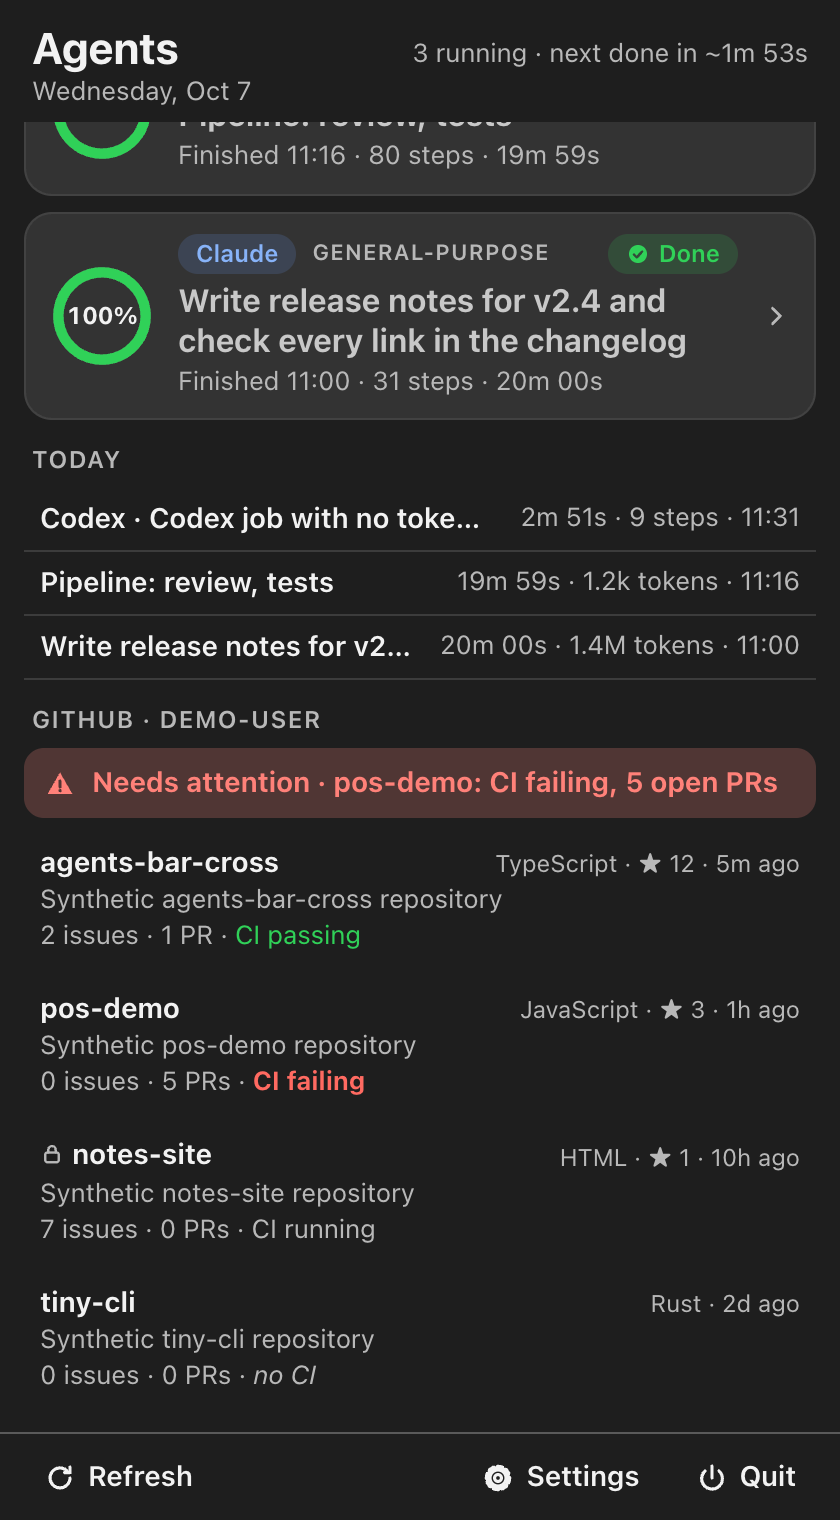
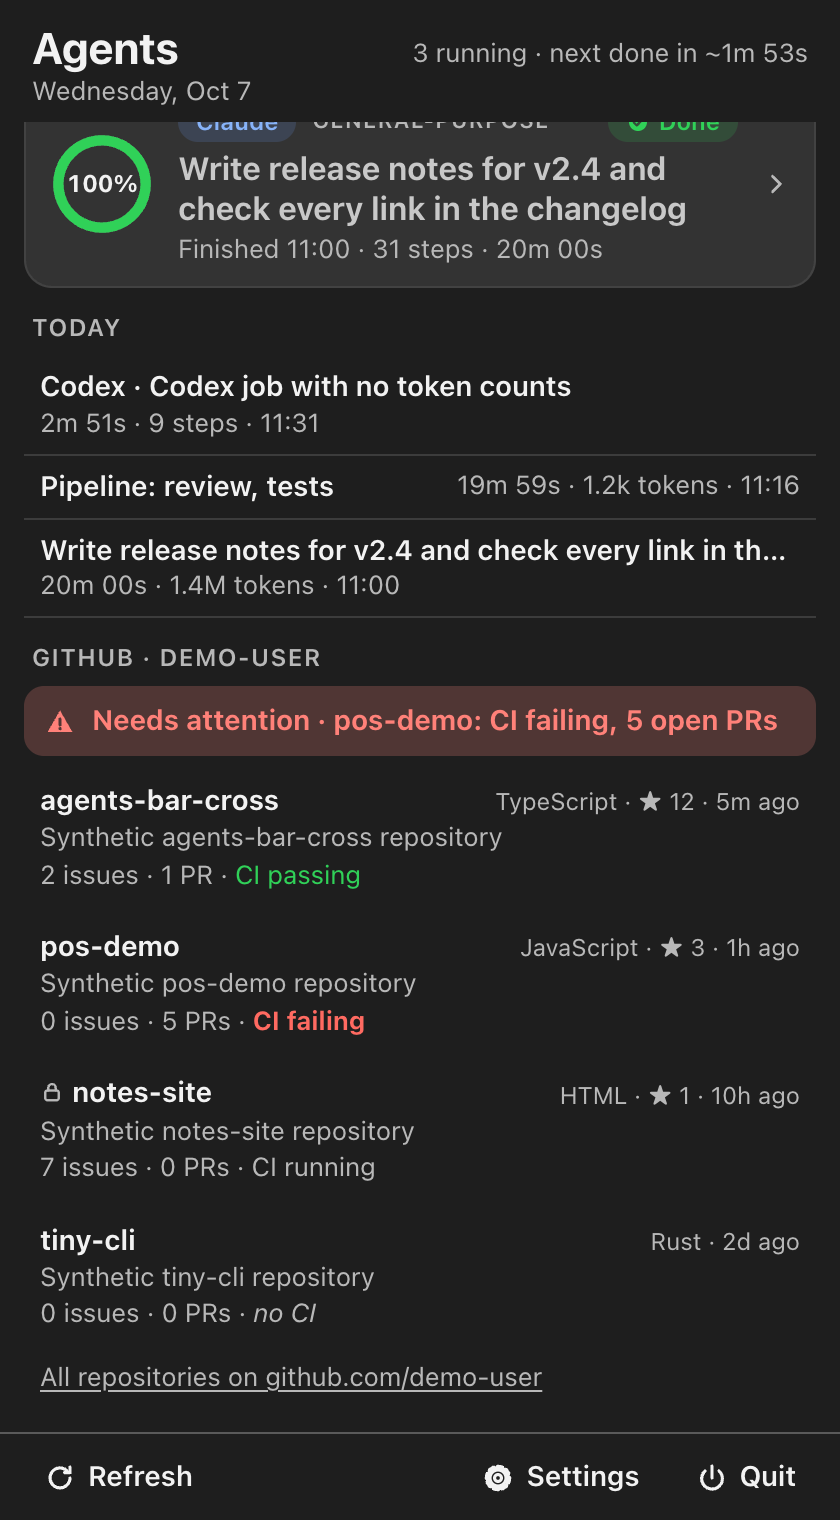
Port three Mac features: tray glance text, over-usual amounts, all-repositories link
- Tray: the title next to the icon (macOS) is the Mac glance text: 63% for one running
  agent, 2 · 33% for two (average of known percents, rounded down), 2 when no percent
  yet, nothing when idle. The tooltip keeps the counts in words with the average.
- A running agent past its usual time reads "7m 40s over usual (~4m 00s) · 38 steps".
- The GitHub section ends with "All repositories on github.com/<login>" or "+N more";
  a new open_profile command opens https://github.com/<login> only for a valid login.
- Tests: barText/trayLabel, over-usual text, link text and validated open (vitest);
  profile_url validation and tray_text sanitising (cargo); ui-smoke checks the link.
- README/DETAILS updated; docs/github-dark.png regenerated with npm run shots.

diff --git a/tests/engine.test.ts b/tests/engine.test.ts
@@ -2,7 +2,8 @@ import { describe, expect, it } from 'vitest';
 import { memoryBackend } from '../src/backend/memory';
 import { Engine } from '../src/ui/engine';
 import { selectRows, subtitle, ringOf } from '../src/ui/format';
-import type { Agent } from '../src/core/agents';
+import { barText, type Agent } from '../src/core/agents';
+import { allReposText } from '../src/core/github';
 
 const NOW = Date.UTC(2026, 9, 7, 19, 0, 0);
 const mk = (o: Partial<Agent> = {}): Agent => ({ agentId: 'a', kind: 'k', description: 'd', state: 'running', started: 0, lastActivity: NOW / 1000, toolCalls: 38, lastTool: 'Bash', pct: 63, eta: NOW / 1000 + 240, asOf: NOW / 1000, source: 'Claude', path: '/p', active: 190, typical: null, rough: false, reported: true, note: 'running the tests', tokensNew: 212_000, tokensCache: 0, ...o });
@@ -10,15 +11,17 @@ const mk = (o: Partial<Agent> = {}): Agent => ({ agentId: 'a', kind: 'k', descri
 describe('engine on the synthetic fleet', () => {
   it('finds running/done/stalled agents, sets the tray text, loads GitHub with attention', async () => {
     const b = memoryBackend({ now: NOW });
-    const labels: string[] = [];
-    b.setTrayLabel = async (l) => { labels.push(l); };
+    const labels: string[] = [], titles: string[] = [];
+    b.setTrayLabel = async (l, t) => { labels.push(l); titles.push(t); };
     const e = new Engine(b);
     await e.init();
     await e.refreshGithub(true);
     const states = e.snap.agents.map((a) => a.state);
     expect(states.filter((s) => s === 'running')).toHaveLength(3);
     expect(states).toContain('stalled');
-    expect(labels.at(-1)).toMatch(/^3 running · \d finished$/);
+    expect(labels.at(-1)).toMatch(/^3 running \(average \d+%\) · \d finished$/);
+    expect(titles.at(-1)).toBe(barText(e.snap.agents));
+    expect(titles.at(-1)).toMatch(/^3 · \d+%$/);
     expect(e.snap.repos).toHaveLength(4);
     expect(e.snap.attention?.text).toBe('Needs attention · pos-demo: CI failing, 5 open PRs');
     expect(e.snap.ghError).toBeNull();
@@ -40,6 +43,11 @@ describe('row text', () => {
     expect(ringOf(mk({ pct: null })).text).toBe('…');
     expect(subtitle(mk({ state: 'done' }), 'both')).toContain('Finished');
   });
+  it('an agent past its usual time says by how much (Mac parity)', () => {
+    const slow = mk({ reported: false, note: '', pct: 97, eta: null, active: 700, typical: 240, tokensNew: null });
+    expect(subtitle(slow, 'percent')).toBe('7m 40s over usual (~4m 00s) · 38 steps');
+    expect(subtitle(mk({ reported: false, note: '', pct: 97, eta: null, active: 4000, typical: 61, tokensNew: null }), 'percent')).toMatch(/^1h 05m over usual \(~1m 01s\) · /);
+  });
   it('selectRows caps and lets running agents use unused recent slots', () => {
     const run = Array.from({ length: 10 }, (_, i) => mk({ path: `r${i}` }));
     const rec = Array.from({ length: 2 }, (_, i) => mk({ state: 'done', path: `d${i}` }));
@@ -49,5 +57,29 @@ describe('row text', () => {
     const r2 = selectRows([...run, ...Array.from({ length: 9 }, (_, i) => mk({ state: 'done', path: `x${i}` }))], 8, 12);
     expect(r2.running.length + r2.recent.length).toBe(12);
     expect(r2.hidden).toBe(7);
+  });
+});
+
+describe('the GitHub profile link', () => {
+  it('reads like the Mac: all repositories, or how many more', () => {
+    expect(allReposText('demo-user', 4, 4)).toBe('All repositories on github.com/demo-user');
+    expect(allReposText('demo-user', 12, 8)).toBe('+4 more on github.com/demo-user');
+    expect(allReposText('demo-user', 0, 0)).toBe('All repositories on github.com/demo-user');
+    for (const bad of ['', 'a--b', '-x', 'x-', 'me/tool', 'evil.com', 'me?tab=x', 'm e', 'a'.repeat(40)]) expect(allReposText(bad, 3, 3), bad).toBeNull();
+  });
+  it('opens only a valid login from gh, through the backend', async () => {
+    const b = memoryBackend({ now: NOW });
+    const opened: string[] = [];
+    b.openProfile = async (l) => { opened.push(l); };
+    const e = new Engine(b);
+    await e.init(); await e.refreshGithub(true);
+    expect(e.snap.login).toBe('demo-user');
+    await e.openProfile();
+    expect(opened).toEqual(['demo-user']);
+    e.snap = { ...e.snap, login: 'evil.com/x' };
+    await e.openProfile();
+    e.snap = { ...e.snap, login: '' };
+    await e.openProfile();
+    expect(opened).toEqual(['demo-user']);
   });
 });

diff --git a/src/ui/app.tsx b/src/ui/app.tsx
@@ -7,7 +7,7 @@ import { Alert, Back, Chevron, Gear, Lock, Pause, Play, Power, Refresh, Tick } f
 import { AGENT_METRICS, APPEARANCES, BLURS, GLASS_STEP, LABELS, LAYOUTS, LIMIT_MAX, LIMIT_MIN, PROGRESS_STYLES, PR_ALERT_MAX, PR_ALERT_MIN, THEMES, maxRunningFor, type AppSettings } from '../core/settings';
 import { nextDone, type Agent } from '../core/agents';
 import { capRows, todayRow } from '../core/history';
-import { segments, spoken, spokenAttention, type Repo, type Role } from '../core/github';
+import { allReposText, segments, spoken, spokenAttention, type Repo, type Role } from '../core/github';
 import { ago, clean, fmtDuration } from '../core/text';
 
 /** Applies the theme as CSS variables on <html>. Called again when settings or the system appearance change. */
@@ -120,6 +120,7 @@ function MainView({ engine }: { engine: Engine }) {
     ? `${runningAll.length} running · ${next !== null && s.agentMetric !== 'tokens' ? `next done in ~${fmtDuration(next)}` : `${snap.agents.filter((a) => a.state === 'done').length} finished in 24h`}`
     : snap.agents.length ? `Nothing running · ${snap.agents.filter((a) => a.state === 'done').length} finished in 24h` : '';
   const repos = snap.repos.slice(0, s.maxRepos);
+  const allRepos = allReposText(snap.login, snap.repos.length, repos.length);
   const date = new Date(snap.now ? snap.now * 1000 : engine.backend.now()).toLocaleDateString(undefined, { weekday: 'long', month: 'short', day: 'numeric' });
   return (
     <>
@@ -159,6 +160,7 @@ function MainView({ engine }: { engine: Engine }) {
           {snap.ghError && <div class="notice bad" role="alert">{snap.ghError}{repos.length > 0 ? ' Showing the last list.' : ''}</div>}
           {snap.ghLoading && repos.length === 0 && !snap.ghError && <p class="empty">Loading repositories…</p>}
           {repos.length > 0 && <ul class="repos">{repos.map((r) => <RepoRow key={r.url || r.name} r={r} now={snap.now * 1000 || engine.backend.now()} onOpen={(x) => void engine.openRepo(x)} />)}</ul>}
+          {allRepos && <button class="all-repos" onClick={() => void engine.openProfile().catch(() => undefined)} aria-label={`${allRepos}. Open on GitHub.`}>{allRepos}</button>}
         </Section>
       </main>
     </>

diff --git a/src/ui/engine.ts b/src/ui/engine.ts
@@ -1,8 +1,8 @@
 // The engine behind the popup: owns the scanner, the finish watcher, the GitHub book and the settings, and publishes one
 // snapshot to the UI after every change. No DOM here, so it is tested without a browser.
-import { AgentScanner, trayLabel, type Agent } from '../core/agents';
+import { AgentScanner, barState, barText, trayLabel, type Agent } from '../core/agents';
 import { FinishWatcher, NotifiedStore, groupNotification, notification, today } from '../core/history';
-import { StatusBook, attention, fetchWithStatus, ghErrorText, summary, type Hit, type Repo } from '../core/github';
+import { OWNER_RE, StatusBook, attention, fetchWithStatus, ghErrorText, summary, type Hit, type Repo } from '../core/github';
 import { SettingsStore } from '../core/settingsStore';
 import { NOTIFIED_FILE } from '../core/settings';
 import { errMessage } from '../core/io';
@@ -109,9 +109,10 @@ export class Engine {
     this.snap = { ...this.snap, hits, attention: sum ? { text: sum[0], repo: sum[1] } : null };
   }
 
+  /** Tooltip: the counts in words; title (beside the icon, where the OS shows one): the Mac glance text, '' when idle. */
   async publishTray(): Promise<void> {
-    const running = this.snap.agents.filter((a) => a.state === 'running').length;
-    try { await this.backend.setTrayLabel(trayLabel(running, this.snap.finishedToday.length)); } catch { /* the tray is a bonus */ }
+    const [running, pct] = barState(this.snap.agents);
+    try { await this.backend.setTrayLabel(trayLabel(running, this.snap.finishedToday.length, pct), barText(this.snap.agents)); } catch { /* the tray is a bonus */ }
   }
 
   private ghRun: Promise<void> = Promise.resolve();
@@ -150,5 +151,11 @@ export class Engine {
   async openRepo(r: Repo): Promise<void> {
     const m = /^https:\/\/github\.com\/([^/]+\/[^/]+)\/?$/.exec(r.url);
     if (m) await this.backend.openRepo(m[1]!);
+  }
+
+  /** Opens https://github.com/<login> (the login from gh; Rust checks it again and builds the URL itself). */
+  async openProfile(): Promise<void> {
+    const login = this.snap.login;
+    if (OWNER_RE.test(login)) await this.backend.openProfile(login);
   }
 }

diff --git a/tests/agents.test.ts b/tests/agents.test.ts
@@ -1,6 +1,6 @@
 import { describe, expect, it } from 'vitest';
 import { claudeLines, codexLines } from '../tools/synth';
-import { AgentScanner, barState, curvePct, elapsed, estimate, finishedSince, nextDone, overrun, remaining, stateOf, trayLabel, agentKey, type Agent, type KnownFile, type ScanFile, type ScanReply } from '../src/core/agents';
+import { AgentScanner, barState, barText, curvePct, elapsed, estimate, finishedSince, nextDone, overrun, remaining, stateOf, trayLabel, agentKey, type Agent, type KnownFile, type ScanFile, type ScanReply } from '../src/core/agents';
 import type { Rec } from '../src/core/transcripts';
 
 const NOW = 1_760_000_000;
@@ -83,6 +83,20 @@ describe('percent estimate', () => {
     expect(trayLabel(0, 2)).toBe('2 finished');
     expect(trayLabel(1, 0)).toBe('1 running');
     expect(trayLabel(0, 0)).toBe('Agents Bar');
+    expect(trayLabel(3, 2, 50)).toBe('3 running (average 50%) · 2 finished');
+    expect(trayLabel(1, 0, 63)).toBe('1 running (63%)');
+  });
+  it('the tray glance text matches the Mac bar_text rules', () => {
+    expect(barText([])).toBe('');
+    expect(barText([agent({ state: 'done', pct: 100 })])).toBe('');
+    expect(barText([agent({ state: 'stalled', pct: 40 })])).toBe('');
+    expect(barText([agent({ pct: 63 })])).toBe('63%');
+    expect(barText([agent({ pct: 40 }), agent({ pct: 60, path: '/b' })])).toBe('2 · 50%');
+    expect(barText([agent({ pct: 33 }), agent({ pct: 34, path: '/b' })])).toBe('2 · 33%'); // the average is rounded down
+    expect(barText([agent({ pct: null }), agent({ pct: null, path: '/b' })])).toBe('2'); // no estimate yet: the count only
+    expect(barText([agent({ pct: null })])).toBe('1');
+    // the count is every running agent; the average only of those with a percent (an unknown is not counted as 0)
+    expect(barText([agent({ pct: 60 }), agent({ pct: null, path: '/b' }), agent({ state: 'done', pct: 100, path: '/c' })])).toBe('2 · 60%');
   });
 });
 

diff --git a/src/core/agents.ts b/src/core/agents.ts
@@ -120,10 +120,19 @@ export function barState(agents: Agent[]): [number, number | null] {
   return [running.length, pcts.length ? Math.floor(pcts.reduce((x, y) => x + y, 0) / pcts.length) : null];
 }
 
-/** Tray tooltip/title: '3 running · 2 finished' (finished = done today is passed in by the caller). */
-export function trayLabel(running: number, finished: number): string {
+/** The glance text beside the tray icon (Mac bar_text): '63%' for one running agent, '2 · 33%' for two (the average of
+ * the known percents, rounded down), '2' when no running agent has an estimate yet, '' when nothing runs. */
+export function barText(agents: Agent[]): string {
+  const [n, pct] = barState(agents);
+  if (!n) return '';
+  if (pct === null) return String(n);
+  return n === 1 ? `${pct}%` : `${n} · ${pct}%`;
+}
+
+/** Tray tooltip: '3 running (average 50%) · 2 finished' (finished = done today is passed in by the caller). */
+export function trayLabel(running: number, finished: number, pct: number | null = null): string {
   const parts: string[] = [];
-  if (running) parts.push(`${running} running`);
+  if (running) parts.push(pct === null ? `${running} running` : `${running} running (${running === 1 ? '' : 'average '}${pct}%)`);
   if (finished) parts.push(`${finished} finished`);
   return parts.length ? parts.join(' · ') : 'Agents Bar';
 }

diff --git a/src/ui/styles.css b/src/ui/styles.css
@@ -65,8 +65,9 @@ html[dir='rtl'] .chev { transform: scaleX(-1); }
 .t-more, .more { color: var(--text2); font-size: 13px; padding: 6px 8px; margin: 0; }
 
 .repos { display: grid; gap: 4px; }
+.all-repos { width: 100%; min-width: 0; overflow-wrap: anywhere; text-align: start; background: transparent; color: var(--text2); border: 0; border-radius: 10px; padding: 7px 8px; font: inherit; font-size: 13px; text-decoration: underline; text-underline-offset: 2px; cursor: pointer; }
 .repo { width: 100%; min-width: 0; max-width: 100%; overflow: hidden; text-align: start; background: transparent; border: 0; border-radius: 10px; padding: 7px 8px; cursor: pointer; }
-.repo:hover { background: color-mix(in srgb, var(--card) 80%, transparent); }
+.repo:hover, .all-repos:hover { background: color-mix(in srgb, var(--card) 80%, transparent); }
 .repo-top { display: flex; flex-wrap: wrap; justify-content: space-between; gap: 0 10px; align-items: baseline; min-width: 0; }
 .repo-name { font-weight: 650; display: inline-flex; align-items: center; gap: 4px; min-width: 0; overflow: hidden; text-overflow: ellipsis; white-space: nowrap; }
 .lock { width: 12px; height: 12px; color: var(--text2); flex: none; }

diff --git a/src/backend/types.ts b/src/backend/types.ts
@@ -19,13 +19,16 @@ export interface Backend {
   /** True when notifications are switched off for this run (AGENTSBAR_NO_NOTIFICATIONS). */
   notifyOff: boolean;
   now: () => number; // ms
-  setTrayLabel(label: string): Promise<void>;
+  /** `label` is the tooltip; `title` the short glance text beside the icon (macOS shows it), '' for none. */
+  setTrayLabel(label: string, title: string): Promise<void>;
   hide(): Promise<void>;
   quit(): Promise<void>;
   /** Shows a transcript in the file manager. The Rust side only accepts paths its own scanner found. */
   revealTranscript(path: string): Promise<void>;
   /** The Rust side builds https://github.com/<owner>/<repo> from the validated names and opens it. */
   openRepo(slug: string): Promise<void>;
+  /** The Rust side builds https://github.com/<login> from the validated login and opens it. */
+  openProfile(login: string): Promise<void>;
   autostart: { isEnabled(): Promise<boolean>; set(on: boolean): Promise<void> } | null;
   onTick(cb: () => void): () => void;
   /** The computer woke from sleep (Rust sends it from its tick thread). Optional: the browser preview has none. */

diff --git a/src/backend/tauri.ts b/src/backend/tauri.ts
@@ -37,11 +37,12 @@ export async function tauriBackend(): Promise<Backend> {
     notifyOff: info.noNotifications,
     // Sent from Rust, which reports a real failure (denied, no daemon) so the retries are driven by what actually happened.
     notify: (title, body) => invoke<void>('notify', { title, body }).then(() => true, () => false),
-    setTrayLabel: (label) => invoke<void>('set_tray_label', { label }),
+    setTrayLabel: (label, title) => invoke<void>('set_tray_label', { label, title }),
     hide: () => invoke<void>('hide_popup'),
     quit: () => invoke<void>('quit_app'),
     revealTranscript: (path) => invoke<void>('reveal_transcript', { path }).catch((e) => { throw new Error(errMessage(e)); }),
     openRepo: (slug) => invoke<void>('open_repo', { slug }).catch((e) => { throw new Error(errMessage(e)); }),
+    openProfile: (login) => invoke<void>('open_profile', { login }).catch((e) => { throw new Error(errMessage(e)); }),
     autostart: { isEnabled: () => isEnabled(), set: (on) => (on ? enable() : disable()) },
     onTick: (cb) => subscribe('tick', cb),
     onSlept: (cb) => subscribe('slept', cb),

diff --git a/src/core/github.ts b/src/core/github.ts
@@ -182,6 +182,14 @@ export async function fetchWithStatus(book: StatusBook, gh: GhBackend, now: numb
 
 // ---- text ----------------------------------------------------------------------------------------------------
 
+/** The last line of the GitHub list (Mac parity): 'All repositories on github.com/<login>', or '+N more on
+ * github.com/<login>' when the list was cut short. null when there is no valid login to link to. */
+export function allReposText(login: string, total: number, shown: number): string | null {
+  if (!OWNER_RE.test(login)) return null;
+  const more = total - shown;
+  return more > 0 ? `+${more} more on github.com/${login}` : `All repositories on github.com/${login}`;
+}
+
 const plural = (n: number, word: string, pl?: string) => `${n.toLocaleString('en-US')} ${n === 1 ? word : pl ?? `${word}s`}`;
 const ciOf = (r: Partial<Repo> | null | undefined): Ci | null => (r && (CI_VALUES as readonly unknown[]).includes(r.ci) ? (r.ci as Ci) : null);
 const numOf = (v: unknown): number | null => num(v);

diff --git a/src/backend/memory.ts b/src/backend/memory.ts
@@ -80,7 +80,7 @@ export function memoryBackend(o: PreviewOptions = {}): Backend {
     scan: new MemoryScan(o.empty ? [] : demoScanFiles(nowSec, o.hostile)),
     gh: demoGh(nowSec, o.gh ?? 'ok', o.hostile),
     notify: async () => true, notifyOff: true,
-    setTrayLabel: async () => {}, hide: async () => {}, quit: async () => {}, revealTranscript: async () => {}, openRepo: async () => {},
+    setTrayLabel: async () => {}, hide: async () => {}, quit: async () => {}, revealTranscript: async () => {}, openRepo: async () => {}, openProfile: async () => {},
     autostart: { isEnabled: async () => false, set: async () => {} },
     onTick: (cb) => { const t = setInterval(cb, 3000); return () => clearInterval(t); },
     onShown: () => () => {},

diff --git a/src/ui/format.ts b/src/ui/format.ts
@@ -28,7 +28,7 @@ export function subtitle(a: Agent, metric: AgentMetric): string {
   const est = a.pct === null ? '' : a.reported ? `${a.pct}%` : `est. ${a.pct}%`;
   if (metric === 'percent') {
     const rem = remaining(a);
-    if (overrun(a)) return `Taking longer than usual · ${fmtStats({ ...a, tokensNew: null })}`;
+    if (overrun(a)) return `${fmtDuration(elapsed(a) - a.typical!)} over usual (~${fmtDuration(a.typical)}) · ${fmtStats({ ...a, tokensNew: null })}`;
     const parts: string[] = [];
     if (rem !== null) parts.push(`~${fmtDuration(rem)} left`);
     if (a.note) parts.push(a.note);

diff --git a/src-tauri/src/lib.rs b/src-tauri/src/lib.rs
@@ -135,18 +135,23 @@ async fn fs_move_aside(
     off_main(move || files::move_aside(&dir, &name, &backup_name))
 }
 
+/// Tray text from the page: no control characters, at most `max` characters.
+pub fn tray_text(text: &str, max: usize) -> String {
+    text.chars().filter(|c| !c.is_control()).take(max).collect()
+}
+
+/// `label` is the tooltip; `title` is the short glance text beside the icon ("63%", "2 · 33%"), "" when nothing runs.
 #[tauri::command]
-fn set_tray_label(state: State<AppState>, label: String) {
-    let label: String = label
-        .chars()
-        .filter(|c| !c.is_control())
-        .take(120)
-        .collect();
+fn set_tray_label(state: State<AppState>, label: String, title: String) {
+    let label = tray_text(&label, 120);
+    let title = tray_text(&title, 24);
     if let Some(tray) = state.tray.lock().unwrap().as_ref() {
-        eprintln!("agents-bar: tray label: {label}");
+        eprintln!("agents-bar: tray label: {label} [{title}]");
         let _ = tray.set_tooltip(Some(&label));
         #[cfg(target_os = "macos")]
-        let _ = tray.set_title(Some(&label));
+        let _ = tray.set_title(if title.is_empty() { None } else { Some(title) });
+        #[cfg(not(target_os = "macos"))]
+        let _ = title;
     }
 }
 
@@ -267,6 +272,16 @@ fn reveal_transcript(app: AppHandle, state: State<AppState>, path: String) -> Re
 #[tauri::command]
 fn open_repo(app: AppHandle, slug: String) -> Result<(), String> {
     let url = gh::repo_url(&slug).ok_or_else(|| "not a valid repository name".to_string())?;
+    use tauri_plugin_opener::OpenerExt;
+    app.opener()
+        .open_url(url, None::<&str>)
+        .map_err(|e| e.to_string())
+}
+
+/// Opens https://github.com/<login>, built here from a validated login (never a URL from the page).
+#[tauri::command]
+fn open_profile(app: AppHandle, login: String) -> Result<(), String> {
+    let url = gh::profile_url(&login).ok_or_else(|| "not a valid GitHub login".to_string())?;
     use tauri_plugin_opener::OpenerExt;
     app.opener()
         .open_url(url, None::<&str>)
@@ -489,6 +504,7 @@ pub fn run() {
             gh_run_list,
             reveal_transcript,
             open_repo,
+            open_profile,
             notify
         ])
         .setup(|app| {
@@ -541,7 +557,9 @@ pub fn run() {
 
 #[cfg(test)]
 mod tests {
-    use super::{notification_text, off_main_for, suppress_reopen, BLUR_REOPEN_SUPPRESS, TRAY_MID};
+    use super::{
+        notification_text, off_main_for, suppress_reopen, tray_text, BLUR_REOPEN_SUPPRESS, TRAY_MID,
+    };
     use std::time::Duration;
 
     #[test]
@@ -555,6 +573,13 @@ mod tests {
             120
         );
         assert_eq!(notification_text("  a   b  ", 10), "a b");
+    }
+
+    #[test]
+    fn tray_text_drops_control_characters_and_is_capped() {
+        assert_eq!(tray_text("2 · 33%\n\u{7}", 24), "2 · 33%");
+        assert_eq!(tray_text(&"9".repeat(100), 24).chars().count(), 24);
+        assert_eq!(tray_text("", 24), "");
     }
 
     #[test]
